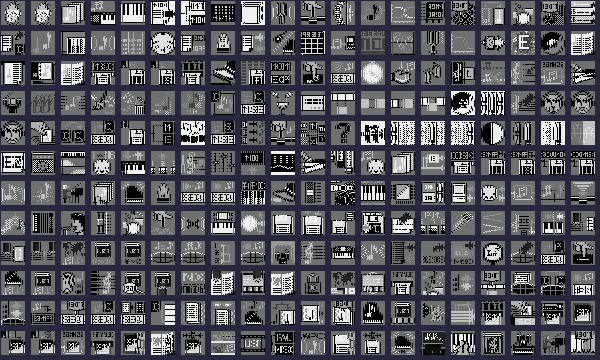
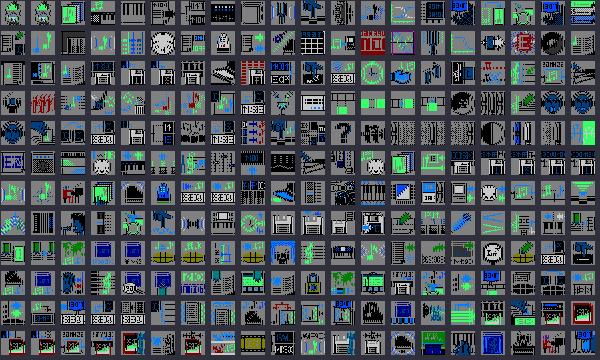
docs: render table-ROM UI bitmaps in true colour; document palette @0x32573C

diff --git a/kn7000-image-gallery.md b/kn7000-image-gallery.md
@@ -225,9 +225,10 @@ reached through a pointer hierarchy: a master directory at table file `0x200`
 points to sub-tables of `{width, height, pixel_ptr}` records; the pixel data is
 raw 4/8bpp palette indices. Extract them with `table_bitmaps.py`.
 
-The exact display palette lives in palette RAM / the program ROM and is not yet
-known, so these are rendered **grayscale by palette index** — the shapes are
-exact, the colours are placeholders.
+These are rendered in their **true display colours**, using the 256-entry
+`0x00RRGGBB` palette found in the **program ROM at file `0x32573C`** (a 16-colour
+VGA-style base). The 8bpp icons make heavy use of palette index `0xF7` — the
+KN5000's transparent index — another echo of the shared codebase.
 
 **Sound & category icons** — 53 variable-size 8bpp bitmaps (sub-table 0):
 instrument glyphs, category labels (including the Japanese `音楽` = "music"), and
